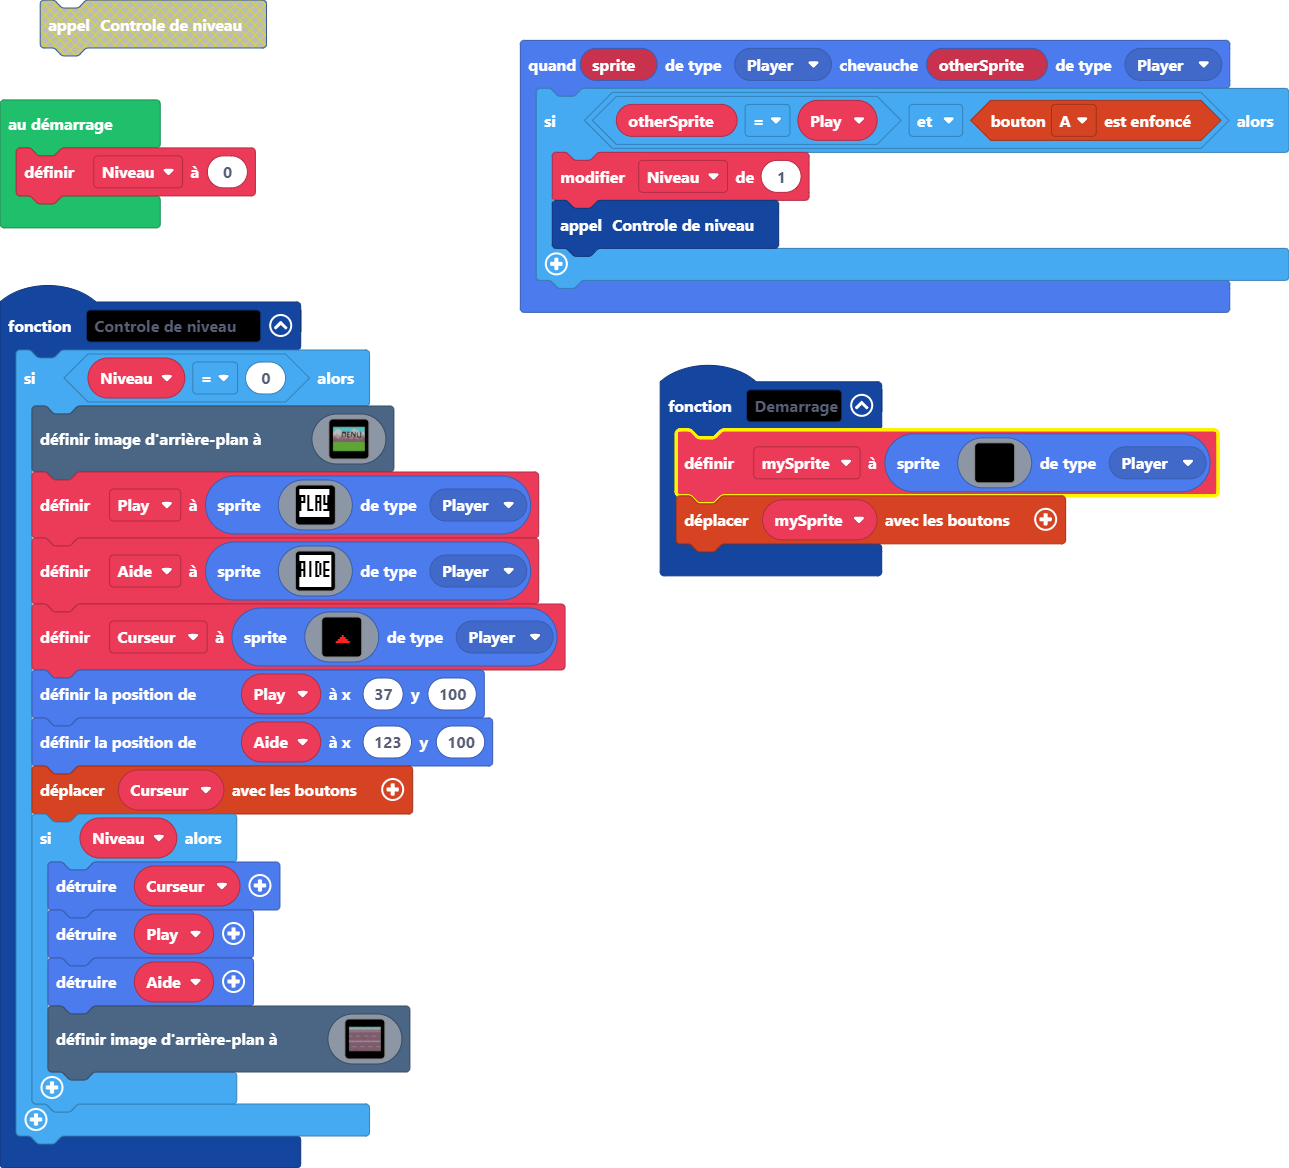
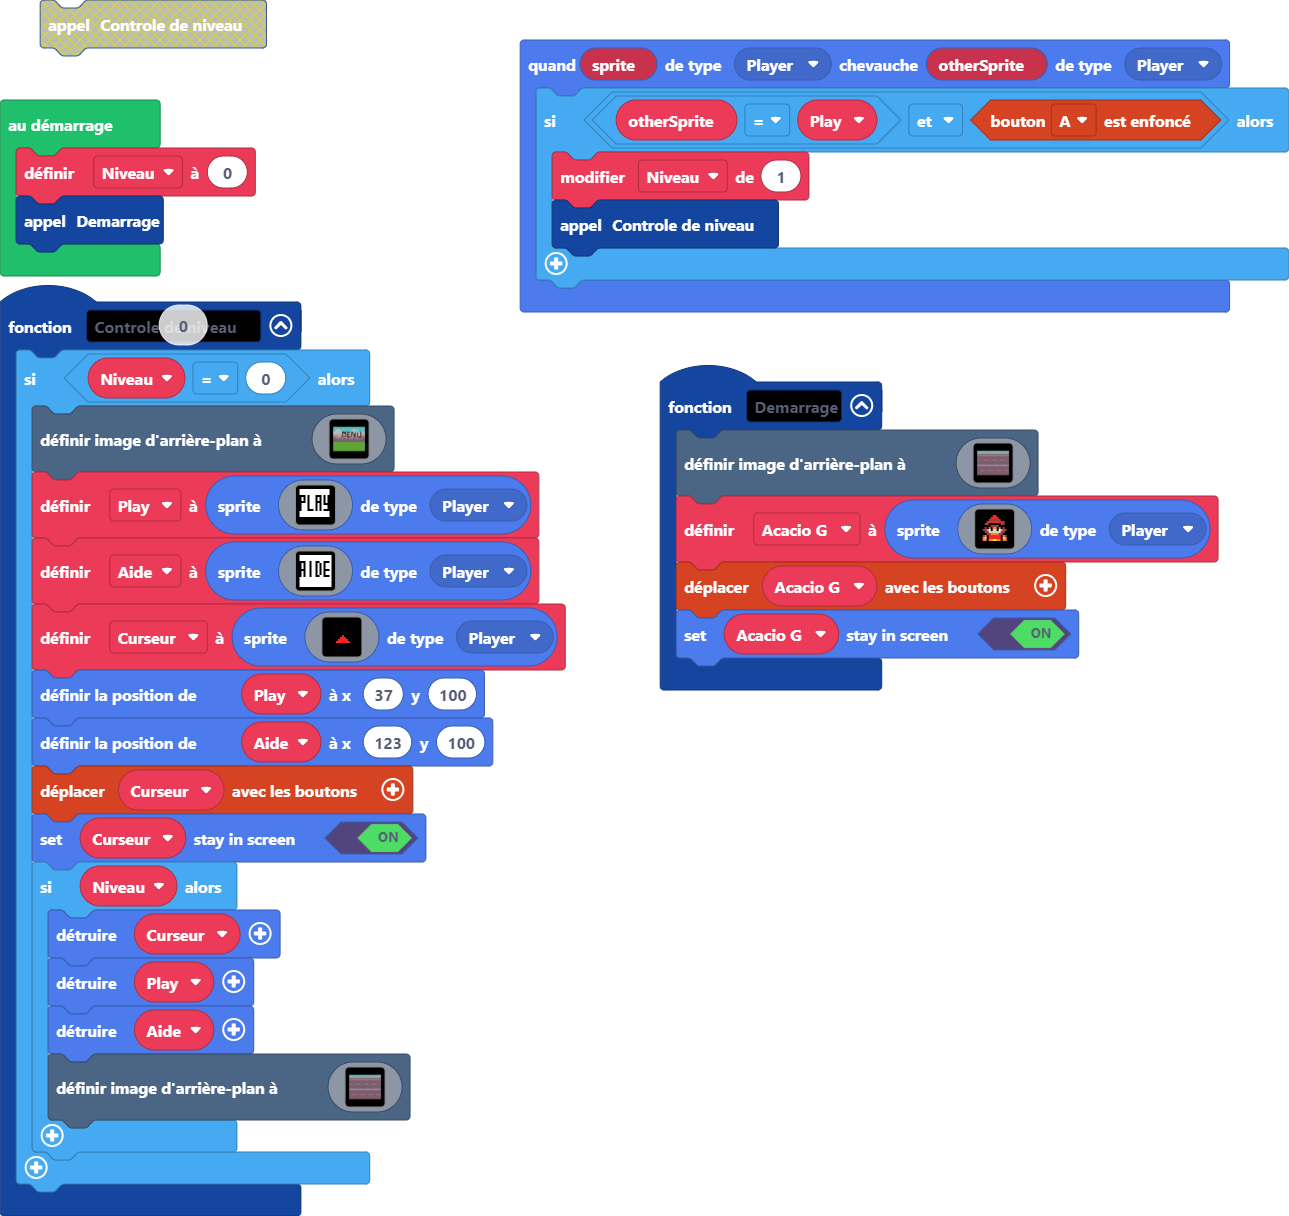
Perso

Changed region(s): [[0.0, 0.0, 0.4655, 0.9863], [0.4034, 0.0308, 1.0, 0.5856]]

diff --git a/main.ts b/main.ts
@@ -185,6 +185,7 @@ function Controle_de_niveau () {
         Play.setPosition(37, 100)
         Aide.setPosition(123, 100)
         controller.moveSprite(Curseur)
+        Curseur.setStayInScreen(true)
         if (Niveau) {
             Curseur.destroy()
             Play.destroy()
@@ -315,29 +316,153 @@ function Controle_de_niveau () {
     }
 }
 function Demarrage () {
-    mySprite = sprites.create(img`
-        . . . . . . . . . . . . . . . . 
-        . . . . . . . . . . . . . . . . 
-        . . . . . . . . . . . . . . . . 
-        . . . . . . . . . . . . . . . . 
-        . . . . . . . . . . . . . . . . 
-        . . . . . . . . . . . . . . . . 
-        . . . . . . . . . . . . . . . . 
-        . . . . . . . . . . . . . . . . 
-        . . . . . . . . . . . . . . . . 
-        . . . . . . . . . . . . . . . . 
-        . . . . . . . . . . . . . . . . 
-        . . . . . . . . . . . . . . . . 
-        . . . . . . . . . . . . . . . . 
-        . . . . . . . . . . . . . . . . 
-        . . . . . . . . . . . . . . . . 
-        . . . . . . . . . . . . . . . . 
+    scene.setBackgroundImage(img`
+        9999999999999999999999999999999999999999999999999999999999999999999999999999999999999999999999999999999999999999999999999999999999999999999999999999999999999999
+        9999999999999999999999999999999999999999999999999999111111111119999999999999999999999999999999999999991111999999999999999999999999999999999999999999111111111111
[12 lines of base64/hex data omitted]
+        cccccccccccccccccccccccccccccccccccccccccccccccccccccccccccccccccccccccccccccccccccccccccccccccccccccccccccccccccccccccccccccccccccccccccccccccccccccccccccccccc
+        1111111111111111111111111111111111111111111111111111111111111111111111111111111111111111111111111111111111111111111111111111111111111111111111111111111111111111
[3 lines of base64/hex data omitted]
+        bbbbbbbbbbbbbbbbbbbbbbbbbbbbbbbbbbbbbbbbbbbbbbbbbbbbbbbbbbbbbbbbbbbbbbbbbbbbbbbbbbbbbbbbbbbbbbbbbbbbbbbbbbbbbbbbbbbbbbbbbbbbbbbbbbbbbbbbbbbbbbbbbbbbbbbbbbbbbbbb
+        bbbbbbbbbbbbbbbbbbbbbbbbbbbbbbbbbbbbbbbbbbbbbbbbbbbbbbbbbbbbbbbbbbbbbbbbbbbbbbbbbbbbbbbbbbbbbbbbbbbbbbbbbbbbbbbbbbbbbbbbbbbbbbbbbbbbbbbbbbbbbbbbbbbbbbbbbbbbbbbb
+        bbbbbbbbbbbbbbbbbbbbbbbbbbbbbbbbbbbbbbbbbbbbbbbbbbbbbbbbbbbbbbbbbbbbbbbbbbbbbbbbbbbbbbbbbbbbbbbbbbbbbbbbbbbbbbbbbbbbbbbbbbbbbbbbbbbbbbbbbbbbbbbbbbbbbbbbbbbbbbbb
+        bbbbbbbbbbbbbbbbbbbbbbbbbbbbbbbbbbbbbbbbbbbbbbbbbbbbbbbbbbbbbbbbbbbbbbbbbbbbbbbbbbbbbbbbbbbbbbbbbbbbbbbbbbbbbbbbbbbbbbbbbbbbbbbbbbbbbbbbbbbbbbbbbbbbbbbbbbbbbbbb
[2 lines of base64/hex data omitted]
+        bbbbbbbbbbbbbbbbbbbbbbbbbbbbbbbbbbbbbbbbbbbbbbbbbbbbbbbbbbbbbbbbbbbbbbbbbbbbbbbbbbbbbbbbbbbbbbbbbbbbbbbbbbbbbbbbbbbbbbbbbbbbbbbbbbbbbbbbbbbbbbbbbbbbbbbbbbbbbbbb
+        bbbbbbbbbbbbbbbbbbbbbbbbbbbbbbbbbbbbbbbbbbbbbbbbbbbbbbbbbbbbbbbbbbbbbbbbbbbbbbbbbbbbbbbbbbbbbbbbbbbbbbbbbbbbbbbbbbbbbbbbbbbbbbbbbbbbbbbbbbbbbbbbbbbbbbbbbbbbbbbb
+        bbbbbbbbbbbbbbbbbbbbbbbbbbbbbbbbbbbbbbbbbbbbbbbbbbbbbbbbbbbbbbbbbbbbbbbbbbbbbbbbbbbbbbbbbbbbbbbbbbbbbbbbbbbbbbccccbbbbbbbbbbbbbbbbbbbbbbbbbbbbbbbbbbbbbbbbbbbbbb
+        bbbbbbbbbbbbbccccbbbbbbbbbbbbbbbbbbbbbbbbbbbbbbbbbbbbbbbbbbbbbbbbbbbbbbbbbbbbbbbbbbbbbbbbbbbbbbbbbbbbbbccccbccbbbbbbbbbbbbbbbbbbbbbbbbbbbbbbbbbbbbbbbbbbbbbbbbbb
+        bbbbbbbbbbbbcbddbcbbbbbbbbbbbbbbbbbbbbbbbbbbbbbbbbbbbbbbbbbbbbbbbbbbbbbbbbbbbbbbbbbbbbbbbbbbbbbbbbbbbbbbbbbccbbbbbbbbbbbbbbbbbbbbbbbbbbbbbbbbbbbbbbbbbbbbbbbbbbb
+        bbbbbbbbbbbbbbbbbbbbbbbbbbbbbbbbbbbbbbbbbbbbbbbbbbbbbbbbbbbbbbbbbbbbbbbbbbbbbbbbbbbbbbbbbbbbbbbbbbbbbbbbbbbbbcbbbbbbbbbbbbbbbbbbbbbbbbbbbbbbbbbbbbbbbbbbbbbbbbbb
+        bbbbbbbbbbbbbbbbbbbbbbbbbbbbbbbbbbbbbbbbbbbbbbbbbbbbbbbbbbbbbbbbbbbbbbbbbbbbbbbbbbbbbbbbbbbbbbbbbbbbbbbbbbbbbbbbbbbbbbbbbbbbbbbbbbbbbbbbbbbbbbbbbbbbbbbbbbbbbbbb
+        bbbbbbbbbbbbbbbbbbbbbbbbbbbbbbbbbbbbbbbbbbbbbbbbbbbbbbbbbbbbbbbbbbbbbbbbbbbbbbbbbbbbbbbbbbbbbbbbbbbbbbbbbbbbbbbbbbbbbbbbbbbbbbbbbbbbbbbbbbbbbbbbbbbbbbbbbbbbbbbb
+        bbbbbbbbbbbbbbbbbbbbbbbbbbbbbbbbbbbbbbbbbbbbbbbbbbbbbbbbbbbbbbbbbbbbbbbbbbbbbbbbbbbbbbbbbbbbbbbbbbbbbbbbbbbbbbbbbbbbbbbbbbbbbbbbbbbbbbbbbbbbbbbbbbbbbbbbbbbbbbbb
+        bbbbbbbbbbbbbbbbbbbbbbbbbbbbbbbbbbbbbbbbbbbbbbbbbbbbbbbbbbbbbbbbbbbbbbbbbbbbbbbbbbbbbbbbbbbbbbbbbbbbbbbbbbbbbbbbbbbbbbbbbbbbbbbbbbbbbbbbbbbbbbbbbbbbbbbbbbbbbbbb
+        bbbbbbbbbbbbbbbbbbbbbbbbbbbbbbbbbbbbbbbbbbbbbbbbbbbbbbbbbbbbbbbbbbbbbbbbbbbbbbbbbbbbbbbbbbbbbbbbbbbbbbbbbbbbbbbbbbbbbbbbbbbbbbbbbbbbbbbbbbbbbbbbbbbbbbbbbbbbbbbb
+        bbbbbbbbbbbbbbbbbbbbbbbbbbbbbbbbbbbbbbbbbbbbbbbbbbbbbbbbbbbbbbbbbbbbbbbbbbbbbbbbbbbbbbbbbbbbbbbbbbbbbbbbbbbbbbbbbbbbbbbbbbbbbbbbbbbbbbbbbbbbbbbbbbbbbbbbbbbbbbbb
+        bbbbbbbbbbbbbbbbbbbbbbbbbbbbbbbbbbbbbbbbbbbbbbbbbbbbbbbbbbbbbbbbbbbbbbbbbbbbbbbbbbbbbbbbbbbbbbbbbbbbbbbbbbbbbbbbbbbbbbbbbbbbbbbbbbbbbbbbbbbbbbbbbbbbbbbbbbbbbbbb
+        bbbbbbbbbbbbbbbbbbbbbbbbbbbbbbbbbbbbbbbbbbbbbbbbbbbbbbbbbbbbbbbbbbbbbbbbbbbbbbbbbbbbbbbbbbbbbbbbbbbbbbbbbbbbbbbbbbbbbbbbbbbbbbbbbbbbbbbbbbbbbbbbbbbbbbbbbbbbbbbb
+        bbbbbbbbbbbbbbbbbbbbbbbbbbbbbbbbbbbbbbbbbbbbbbbbbbbbbbbbbbbbbbbbbbbbbbbbbbbbbbbbbbbbbbbbbbbbbbbbbbbbbbbbbbbbbbbbbbbbbbbbbbbbbbbbbbbbbbbbbbbbbbbbbbbbbbbbbbbbbbbb
+        bbbbbbbbbbbbbbbbbbbbbbbbbbbbbbbbbbbbbbbbbbbbbbbbbbbbbbbbbbbbbbbbbbbbbbbbbbbbbbbbbbbbbbbbbbbbbbbbbbbbbbbbbbbbbbbbbbbbbbbbbbbbbbbbbbbbbbbbbbbbbbbbbbbbbbbbbbbbbbbb
+        bbbbbbbbbbbbbbbbbbbbbbbbbbbbbbbbbbbbbbbbbbbbbbbbbbbbbbbbbbbbbbbbbbbbbbbbbbbbbbbbbbbbbbbbbbbbbbbbbbbbbbbbbbbbbbbbbbbbbbbbbbbbbbbbbbbbbbbbbbbbbbbbbbbbbbbbbbbbbbbb
+        bbbbbbbbbbbbbbbbbbbbbbbbbbbbbbbbbbbbbbbbbbbbbbbbbbbbbbbbbbbbbbbbbbbbbbbbbbbbbbbbbbbbbbbbbbbbbbbbbbbbbbbbbbbbbbbbbbbbbbbbbbbbbbbbbbbbbbbbbbbbbbbbbbbbbbbbbbbbbbbb
+        bbbbbbbbbbbbbbbbbbbbbbbbbbbbbbbbbbbbbbbbbbbbbbbbbbbbbbbbbbbbbbbbbbbbbbbbbbbbbbbbbbbbbbbbbbbbbbbbbbbbbbbbbbbbbbbbbbbbbbbbbbbbbbbbbbbbbbbbbbbbbbbbbbbbbbbbbbbbbbbb
+        bbbbbbbbbbbbbbbbbbbbbbbbbbbbbbbbbbbbbbbbbbbbbbbbbbbbbbbbbbbbbbbbbbbbbbbbbbbbbbbbbbbbbbbbbbbbbbbbbbbbbbbbbbbbbbbbbbbbbbbbbbbbbbbbbbbbbbbbbbbbbbbbbbbbbbbbbbbbbbbb
[2 lines of base64/hex data omitted]
+        bbbbbbbbbbbbbbbbbbbbbbbbbbbbbbbbbbbbbbbbbbbbbbbbbbbbbbbbbbbbbbbbbbbbbbbbbbbbbbbbbbbbbbbbbbbbbbbbbbbbbbbbbbbbbbbbbbbbbbbbbbbbbbbbbbbbbbbbbbbbbbbbbbbbbbbbbbbbbbbb
+        bbbbbbbbbbbbbbbbbbbbbbbbbbbbbbbbbbbbbbbbbbbbbbbbbbbbbbbbbbbbbbbbbbbbbbbbbbbbbbbbbbbbbbbbbbbbbbbbbbbbbbbbbbbbbbbbbbbbbbbbbbbbbbbbbbbbbbbbbbbbbbbbbbbbbbbbbbbbbbbb
+        bbbbbbbbbbbbbbbbbbbbbbbbbbbbbbbbbbbbbbbbbbbbbbbbbbbbbbbbbbbbbbbbbbbbbbbbbbbbbbbbbbbbbbbbbbbbbbbbbbbbbbbbbbbbbbbbbbbbbbbbbbbbbbbbbbbbbbbbbbbbbbbbbbbbbbbbbbbbbbbb
+        bbbbbbbbbbbbbbbbbbbbbbbbbbbbbbbbbbbbbbbbbbbbbbbbbbbbbbbbbbbbbbbbbbbbbbbbbbbbbbbbbbbbbbbbbbbbbbbbbbbbbbbbbbbbbbbbbbbbbbbbbbbbbbbbbbbbbbbbbbbbbbbbbbbbbbbbbbbbbbbb
+        bbbbbbbbbbbbbbbbbbbbbbbbbbbbbbbbbbbbbbbbbbbbbbbbbbbbbbbbbbbbbbbbbbbbbbbbbbbbbbbbbbbbbbbbbbbbbbbbbbbbbbbbbbbbbbbbbbbbbbbbbbbbbbbbbbbbbbbbbbbbbbbbbbbbbbbbbbbbbbbb
+        bbbbbbbbbbbbbbbbbbbbbbbbbbbbbbbbbbbbbbbbbbbbbbbbbbbbbbbbbbbbbbbbbbbbbbbbbbbbbbbbbbbcbbbbbbbbbbbbbbbbbbbbbbbbbbbbbbbbbbbbbbbbbbbbbbbbbbbbbbbbbbbbbbbbbbbbbbbbbbbb
+        bbbbbbbbbbbbbbbbbbbbbbbbbbbbbbbbbbbbbbbbbbbbbbbbbbbbbbbbbbbbbbbbbbbbbbbbbcccbbbccccbbbbbbbbbbbbbbbbbbbbbbbbbbbbbbbbbbbbbbbbbbbbbbbbbbbbbbbbbbbbbbbbbbbbbbbbbbbbb
+        bbbbbbbbbbbbbbbbbbbbbbbbbbbbbbbbbbbbbbbbbbbbbbbbbbbbbbbbbbbbbbbbbbbbbbbbcbbcbbcbcbbbbbbbbbbbbbbbbbbbbbbbbbbbbbbbbbbbbbbbbbbbbbbbbbbbbbbbbbbbbbbbbbbbbbbbbbbbbbbb
+        bbbbbbbbbbbbbbbbbbbbbbbbbbbbbbbbbbbbbbbbbbbbbbbbbbbbbbbbbbbbbbbbbbbbbbbbbbbbccbcbbbbbbbbbbbbbbbbbbbbbbbbbbbbbbbbbbbbbbbbbbbbbbbbbbbbbbbbbbbbbbbbbbbbbbbbbbbbbbbb
+        bbbbbbbbbbbbbbbbbbbbbbbbbbbbbbbbbbbbbbbbbbbbbbbbbbbbbbbbbbbbbbbbbbbbbbbbbbbbbcccccbbbbbbbbbbbbbbbbbbbbbbbbbbbbbbbbbbbbbbbbbbbbbbbbbbbbbbbbbbbbbbbbbbbbbbbbbbbbbb
+        bbbbbbbbbbbbbbbbbbbbbbbbbbbbbbbbbbbbbbbbbbbbbbbbbbbbbbbbbbbbbbbbbbbbbbbbbbbbbbbbbbcbbbbbbbbbbbbbbbbbbbbbbbbbbbbbbbbbbbbbbbbbbbbbbbbbbbbbbbbbbbbbbbbbbbbbbbbbbbbb
+        bbbbbbbbbbbbbbbbbbbbbbbbbbbbbbbbbbbbbbbbbbbbbbbbbbbbbbbbbbbbbbbbbbbbbbbbbbbbbbbbbbbbbbbbbbbbbbbbbbbbbbccccbbbbbbbbbbbbbbbbbbbbbbbbbbbbbbbbbbbbbbbbbbbbbbbbbbbbbb
+        bbbbbbbbbbbbbbbbbbbbbbbbbbbbbbbbbbbbbbbbbbbbbbbbbbbbbbbbbbbbbbbbbbbbbbbbbbbbbbbbbbbbbbbbbbbbbbbbbbbbbcbddbcbbbbbbbbbbbbbbbbbbbbbbbbbbbbbbbbbbbbbbbbbbbbbbbbbbbbb
+        bbbbbbbbbbbbbbbbbbbbbbbbbbbbbbbbbbbbbbbbbbbbbbbbbbbbbbbbbbbbbbbbbbbbbbbbbbbbbbbbbbbbbbbbbbbbbbbbbbbbbbbbbbbbbbbbbbbbbbbbbbbbbbbbbbbbbbbbbbbbbbbbbbbbbbbbbbbbbbbb
+        bbbbbbbbbbbbbbbbbbbbbbbbbbbbbbbbbbbbbbbbbbbbbbbbbbbbbbbbbbbbbbbbbbbbbbbbbbbbbbbbbbbbbbbbbbbbbbbbbbbbbbbbbbbbbbbbbbbbbbbbbbbbbbbbbbbbbbbbbbbbbbbbbbbbbbbbbbbbbbbb
+        bbbbbbbbbbbbbbbbbbbbbbbbbbbbbbbbbbbbbbbbbbbbbbbbbbbbbbbbbbbbbbbbbbbbbbbbbbbbbbbbbbbbbbbbbbbbbbbbbbbbbbbbbbbbbbbbbbbbbbbbbbbbbbbbbbbbbbbbbbbbbbbbbbbbbbbbbbbbbbbb
+        bbbbbbbbbbbbbbbbbbbbbbbbbbbbbbbbbbbbbbbbbbbbbbbbbbbbbbbbbbbbbbbbbbbbbbbbbbbbbbbbbbbbbbbbbbbbbbbbbbbbbbbbbbbbbbbbbbbbbbbbbbbbbbbbbbbbbbbbbbbbbbbbbbbbbbbbbbbbbbbb
+        bbbbbbbbbbbbbbbbbbbbbbbbbbbbbbbbbbbbbbbbbbbbbbbbbbbbbbbbbbbbbbbbbbbbbbbbbbbbbbbbbbbbbbbbbbbbbbbbbbbbbbbbbbbbbbbbbbbbbbbbbbbbbbbbbbbbbbbbbbbbbbbbbbbbbbbbbbbbbbbb
+        bbbbbbbbbbbbbbbbbbbbbbbbbbbbbbbbbbbbbbbbbbbbbbbbbbbbbbbbbbbbbbbbbbbbbbbbbbbbbbbbbbbbbbbbbbbbbbbbbbbbbbbbbbbbbbbbbbbbbbbbbbbbbbbbbbbbbbbbbbbbbbbbbbbbbbbbbbbbbbbb
+        bbbbbbbbbbbbbbbbbbbbbbbbbbbbbbbbbbbbbbbbbbbbbbbbbbbbbbbbbbbbbbbbbbbbbbbbbbbbbbbbbbbbbbbbbbbbbbbbbbbbbbbbbbbbbbbbbbbbbbbbbbbbbbbbbbbbbbbbbbbbbbbbbbbbbbbbbbbbbbbb
+        bbbbbbbbbbbbbbbbbbbbbbbbbbbbbbbbbbbbbbbbbbbbbbbbbbbbbbbbbbbbbbbbbbbbbbbbbbbbbbbbbbbbbbbbbbbbbbbbbbbbbbbbbbbbbbbbbbbbbbbbbbbbbbbbbbbbbbbbbbbbbbbbbbbbbbbbbbbbbbbb
+        bbbbbbbbbbbbbbbbbbbbbbbbbbbbbbbbbbbbbbbbbbbbbbbbbbbbbbbbbbbbbbbbbbbbbbbbbbbbbbbbbbbbbbbbbbbbbbbbbbbbbbbbbbbbbbbbbbbbbbbbbbbbbbbbbbbbbbbbbbbbbbbbbbbbbbbbbbbbbbbb
[2 lines of base64/hex data omitted]
+        bbbbbbbbbbbbbbbbbbbbbbbbbbbbbbbbbbbbbbbbbbbbbbbbbbbbbbbbbbbbbbbbbbbbbbbbbbbbbbbbbbbbbbbbbbbbbbbbbbbbbbbbbbbbbbbbbbbbbbbbbbbbbbbbbbbbbbbbbbbbbbbbbbbbbbbbbbbbbbbb
+        bbbbbbbbbbbbbbbbbbbbbbbbbbbbbbbbbbbbbbbbbbbbbbbbbbbbbbbbbbbbbbbbbbbbbbbbbbbbbbbbbbbbbbbbbbbbbbbbbbbbbbbbbbbbbbbbbbbbbbbbbbbbbbbbbbbbbbbbbbbbbbbbbbbbbbbbbbbbbbbb
[2 lines of base64/hex data omitted]
+        bbbbbbbbbbbbbbbbbbbbbbbbbbbbbbbbbbbbbbbbbbbbbbbbbbbbbbbbbbbbbbbbbbbbbbbbbbbbbbbbbbbbbbbbbbbbbbbbbbbbbbbbbbbbbbbbbbbbbbbbbbbbbbbbbbbbbbbbbbbbbbbbbbbbbbbbbbbbbbbb
+        bbbbbbbbbbbbbbbbbbbbbbbbbbbbbbbbbbbbbbbbbbbbbbbbbbbbbbbbbbbbbbbbbbbbbbbbbbbbbbbbbbbbbbbbbbbbbbbbbbbbbbbbbbbbbbbbbbbbbbbbbbbbbbbbbbbbbbbbbbbbbbbbbbbbbbbbbbbbbbbb
+        bbbbbbbbbbbbbbbbbbbbbbbbbbbbbbbbbbbbbbbbbbbbbbbbbbbbbbbbbbbbbbbbbbbbbbbbbbbbbbbbbbbbbbbbbbbbbbbbbbbbbbbbbbbbbbbbbbbbbbbbbbbbbbbbbbbbbbbbbbbbbbbbbbbbbbbbbbbbbbbb
+        bbbbbbbbbbbbbbbbbbbbbbbbbbbbbbbbbbbbbbbbbbbbbbbbbbbbbbbbbbbbbbbbbbbbbbbbbbbbbbbbbbbbbbbbbbbbbbbbbbbbbbbbbbbbbbbbbbbbbbbbbbbbbbbbbbbbbbbbbbbbbbbbbbbbbbbbbbbbbbbb
+        bbbcccbbbbbbbbbbbbbbbbbbbbbbbbbbbbbbbbbbbbbbbbbbbbbbbbbbbbbbbbbbbbbbbbbbbbbbbbbbbbbbbbbbbbbbbbbbbbbbbbbbbbbbbbbbbbbbbbbbbbbbbbbbbbbbbbbbbbbbbbbbbbbbbbbbbbbbbbbb
+        bbccbbcbbbbbbbbbbbbbbbbbbbbbbbbbbbbbbbbbbbbbbbbbbbbbbbbbbbbbbbbbbbbbbbbbbbbbbbbbbbbbbbbbbbbbbbbbbbbbbbbbbbbbbbbbbbbbbbbbbbbbbbbbbbbbbbbbbbbbbbbbbbbbbbbbbbbbbbbb
+        cccbbbbbbbbbbbbbbbbbbbbbbbbbbbbbbbbbbbbbbbbbbbbbbbbbbbbbbbbbbbbbbbbbbbbbbbbbbbbbbbbbbbbbbbbbbbbbbbbbbbbbbbbbbbbbbbbbbbbbbbbbbbbbbbbbbbbbbbbbbbbbbbbbbbbbbbbbbbbc
+        bccbbbbbbbbbbbbbbbbbbbbbbbbbbbbbbbbbbbbbbbbbbbbbbbbbbbbbbbbbbbbbbbbbbbbbbbbbbbbbbbbbbbbbbbbbbbbbbbbbbbbbbbbbbbbbbbbbbbbbbbbbbbbbbbbbbbbbbbbbbbbbbbbbbbbbbbbbcccc
+        ccccbbbbbbbbbbbbbbbbbbbbbbbbbbbbbbbbbbbbbbbbbbbbbbbbbbbbbbbbbbbbbbbbbbbbbbbbbbbbbbbbbbbbbbbbbbbbbbbbbbbbbbbbbbbbbbbbbbbbbbbbbbbbbbbbbbbbbbbbbbbbbbbbbbbbbbccbbbb
+        bbbbccbbbbbbbbbbbbbbbbbbbbbbbbbbbbbbbbbbbbbbbbbbbbbbbbbbbbbbbbbbbbbbbbbbbbbbbbbbbbbbbbbbbbbbbbbbbbbbbbbbbbbbbbbbbbbbbbbbbbbbbbbbbbbbbbbbbbbbbbbbbbbbbbbbbbbbbbbb
+        bbbbbbbbbbbbbbbbbbbbbbbbbbbbbbbbbbbbbbbbbbbbbbbbbbbbbbbbbbbbbbbbbbbbbbbbbbbbbbbbbbbbbbbbbbbbbbbbbbbbbbbbbbbbbbbbbbbbbbbbbbbbbbbbbbbbbbbbbbbbbbbbbbbbbbbbbbbbbbbb
+        bbbbbbbbbbbbbbbbbbbbbbbbbbbbbbbbbbbbbbbbbbbbbbbbbbbbbbbbbbbbbbbbbbbbbbbbbbbbbbbbbbbbbbbbbbbbbbbbbbbbbbbbbbbbbbbbbbbbbbbbbbbbbbbbbbbbbbbbbbbbbbbbbbbbbbbbbbbbbbbb
+        bbbbbbbbbbbbbbbbbbbbbbbbbbbbbbbbbbbbbbbbbbbbbbbbbbbbbbbbbbbbbbbbbbbbbbbbbbbbbbbbbbbbbbbbbbbbbbbbbbbbbbbbbbbbbbbbbbbbbbbbbbbbbbbbbbbbbbbbbbbbbbbbbbbbbbbbbbbbbbbb
+        bbbbbbbbbbbbbbbbbbbbbbbbbbbbbbbbbbbbbbbbbbbbbbbbbbbbbbbbbbbbbbbbbbbbbbbbbbbbbbbbbbbbbbbbbbbbbbbbbbbbbbbbbbbbbbbbbbbbbbbbbbbbbbbbbbbbbbbbbbbbbbbbbbbbbbbbbbbbbbbb
+        bbbbbbbbbbbbbbbbbbbbbbbbbbbbbbbbbbbbbbbbbbbbbbbbbbbbbbbbbbbbbbbbbbbbbbbbbbbbbbbbbbbbbbbbbbbbbbbbbbbbbbbbbbbbbbbbbbbbbbbbbbbbbbbbbbbbbbbbbbbbbbbbbbbbbbbbbbbbbbbb
+        bbbbbbbbbbbbbbbbbbbbbbbbbbbbbbbbbbbbbbbbbbbbbbbbbbbbbbbbbbbbbbbbbbbbbbbbbbbbbbbbbbbbbbbbbbbbbbbbbbbbbbbbbbbbbbbbbbbbbbbbbbbbbbbbbbbbbbbbbbbbbbbbbbbbbbbbbbbbbbbb
+        bbbbbbbbbbbbbbbbbbbbbbbbbbbbbbbbbbbbbbbbccccbbbbbbbbbbbbbbbbbbbbbbbbbbbbbbbbbbbbbbbbbbbbbbbbbbbbbbbbbbbbbbbbbbbbbbbbbbbbbbbbbbbbbbbbbbbbbbbbbbbbbbbbbbbbbbbbbbbb
+        bbbbbbbbbbbbbbbbbbbbbbbbbbbbbbbbbbbbbbbcbddbcbbbbbbbbbbbbbbbbbbbbbbbbbbbbbbbbbbbbbbbbbbbbbbbbbbbbbbbbbbbbbbbbbbbbbbbbbbbbbbbbbbbbbbbbbbbbbbbbbbbbbbbbbbbbbbbbbbb
+        bbbbbbbbbbbbbbbbbbbbbbbbbbbbbbbbbbbbbbbbbbbbbbbbbbbbbbbbbbbbbbbbbbbbbbbbbbbbbbbbbbbbbbbbbbbbbbbbbbbbbbbbbbbbbbbbbbbbbbbbbbbbbbbbbbbbbbbbbbbbbbbbbbbbbbbbbbbbbbbb
+        bbbbbbbbbbbbbbbbbbbbbbbbbbbbbbbbbbbbbbbbbbbbbbbbbbbbbbbbbbbbbbbbbbbbbbbbbbbbbbbbbbbbbbbbbbbbbbbbbbbbbbbbbbbbbbbbbbbbbbbbbbbbbbbbbbbbbbbbbbbbbbbbbbbbbbbbbbbbbbbb
+        bbbbbbbbbbbbbbbbbbbbbbbbbbbbbbbbbbbbbbbbbbbbbbbbbbbbbbbbbbbbbbbbbbbbbbbbbbbbbbbbbbbbbbbbbbbbbbbbbbbbbbbbbbbbbbbbbbbbbbbbbbbbbbbbbbbbbbbbbbbbbbbbbbbbbbbbbbbbbbbb
+        bbbbbbbbbbbbbbbbbbbbbbbbbbbbbbbbbbbbbbbbbbbbbbbbbbbbbbbbbbbbbbbbbbbbbbbbbbbbbbbbbbbbbbbbbbbbbbbbbbbbbbbbbbbbbbbbbbbbbbbbbbbbbbbbbbbbbbbbbbbbbbbbbbbbbbbbbbbbbbbb
[2 lines of base64/hex data omitted]
+        bbbbbbbbbbbbbbbbbbbbbbbbbbbbbbbbbbbbbbbbbbbbbbbbbbbbbbbbbbbbbbbbbbbbbbbbbbbbbbbbbbbbbbbbbbbbbbbbbbbbbbbbbbbbbbbbbbbbbbbbbbbbbbbbbbbbbbbbbbbbbbbbbbbbbbbbbbbbbbbb
+        bbbbbbbbbbbbbbbbbbbbbbbbbbbbbbbbbbbbbbbbbbbbbbbbbbbbbbbbbbbbbbbbbbbbbbbbbbbbbbbbbbbbbbbbbbbbbbbbbbbbbbbbbbbbbbbbbbbbbbbbbbbbbbbbbbbbbbbbbbbbbbbbbbbbbbbbbbbbbbbb
+        bbbbbbbbbbbbbbbbbbbbbbbbbbbbbbbbbbbbbbbbbbbbbbbbbbbbbbbbbbbbbbbbbbbbbbbbbbbbbbbbbbbbbbbbbbbbbbbbbbbbbbbbbbbbbbbbbbbbbbbbbbbbbbbbbbbbbbbbbbbbbbbbbbbbbbbbbbbbbbbb
+        bbbbbbbbbbbbbbbbbbbbbbbbbbbbbbbbbbbbbbbbbbbbbbbbbbbbbbbbbbbbbbbbbbbbbbbbbbbbbbbbbbbbbbbbbbbbbbbbbbbbbbbbbbbbbbbbbbbbbbbbbbbbbbbbbbbbbbbbbbbbbbbbbbbbbbbbbbbbbbbb
+        bbbbbbbbbbbbbbbbbbbbbbbbbbbbbbbbbbbbbbbbbbbbbbbbbbbbbbbbbbbbbbbbbbbbbbbbbbbbbbbbbbbbbbbbbbbbbbbbbbbbbbbbbbbbbbbbbbbbbbbbbbbbbbbbbbbbbbbbbbbbbbbbbbbbbbbbbbbbbbbb
+        bbbbbbbbbbbbbbbbbbbbbbbbbbbbbbbbbbbbbbbbbbbbbbbbbbbbbbbbbbbbbbbbbbbbbbbbbbbbbbbbbbbbbbbbbbbbbbbbbbbbbbbbbbbbbbbbbbbbbbbbbbbbbbbbbbbbbbbbbbbbbbbbbbbbbbbbbbbbbbbb
+        bbbbbbbbbbbbbbbbbbbbbbbbbbbbbbbbbbbbbbbbbbbbbbbbbbbbbbbbbbbbbbbbbbbbbbbbbbbbbbbbbbbbbbbbbbbbbbbbbbbbbbbbbbbbbbbbbbbbbbbbbbbbbbbbbbbbbbbbbbbbbbbbbbbbbbbbbbbbbbbb
+        bbbbbbbbbbbbbbbbbbbbbbbbbbbbbbbbbbbbbbbbbbbbbbbbbbbbbbbbbbbbbbbbbbbbbbbbbbbbbbbbbbbbbbbbbbbbbbbbbbbbbbbbbbbbbbbbbbbbbbbbbbbbbbbbbbbbbbbbbbbbbbbbbbbbbbbbbbbbbbbb
+        bbbbbbbbbbbbbbbbbbbbbbbbbbbbbbbbbbbbbbbbbbbbbbbbbbbbbbbbbbbbbbbbbbbbbbbbbbbbbbbbbbbbbbbbbbbbbbbbbbbbbbbbbbbbbbbbbbbbbbbbbbbbbbbbbbbbbbbbbbbbbbbbbbbbbbbbbbbbbbbb
+        bbbbbbbbbbbbbbbbbbbbbbbbbbbbbbbbbbbbbbbbbbbbbbbbbbbbbbbbbbbbbbbbbbbbbbbbbbbbbbbbbbbbbbbbbbbbbbbbbbbbbbbbbbbbbbbbbbbbbbbbbbbbbbbbbbbbbbbbbbbbbbbbbbbbbbbbbbbbbbbb
+        ccbbbbbbbbbbbbbbbbbbbbbbbbbbbbbbbbbbbbbbbbbbbbbbbbbbbbbbbbbbbbbbbbbbbbbbbbbbbbbbbbbbbbbbbbbbbbbbbbbbbbbbbbbbbbbbbbbbbbbbbbbbbbbbbbbbbbbbbbbbbbbbbbbbbbbbbbbbbbcc
+        dbcbbbbbbbbbbbbbbbbbbbbbbbbbbbbbbbbbbbbbbbbbbbbbbbbbbbbbbbbbbbbbbbbbbbbbbbbbbbbbbbbbbbbbbbbbbbbbbbbbbbbbbbbbbbbbbbbbbbbbbbbbbbbbbbbbbbbbbbbbbbbbbbbbbbbbbbbbbcbd
+        bbbbbbbbbbbbbbbbbbbbbbbbbbbbbbbbbbbbbbbbbbbbbbbbbbbbbbbbbbbbbbbbbbbbbbbbbbbbbbbbbbbbbbbbbbbbbbbbbbbbbbbbbbbbbbbbbbbbbbbbbbbbbbbbbbbbbbbbbbbbbbbbbbbbbbbbbbbbbbbb
+        bbbbbbbbbbbbbbbbbbbbbbbbbbbbbbbbbbbbbbbbbbbbbbbbbbbbbbbbbbbbbbbbbbbbbbbbbbbbbbbbbbbbbbbbbbbbbbbbbbbbbbbbbbbbbbbbbbbbbbbbbbbbbbbbbbbbbbbbbbbbbbbbbbbbbbbbbbbbbbbb
+        bbbbbbbbbbbbbbbbbbbbbbbbbbbbbbbbbbbbbbbbbbbbbbbbbbbbbbbbbbbbbbbbbbbbbbbbbbbbbbbbbbbbbbbbbbbbbbbbbbbbbbbbbbbbbbbbbbbbbbbbbbbbbbbbbbbbbbbbbbbbbbbbbbbbbbbbbbbbbbbb
+        bbbbbbbbbbbbbbbbbbbbbbbbbbbbbccbbbbbbbbcbbbbbbbbbbbbbbbbbbbbbbbbbbbbbbbbbbbbbbbbbbbbbbbbbbbbbbbbbbbbbbbbbbbbbbbbbbbbbbbbbbbbbbbbbbbbbbbbbbbbbbbbbbbbbbbbbbbbbbbb
+        bbbbbbbbbbbbbbbbbbbbbbbbbbbbbbbbcccccccbbbbbbbbbbbbbbbbbbbbbbbbbbbbbbbbbbbbbbbbbbbbbbbbbbbbbbbbbbbbbbbbbbbbbbbbbbbbbbbbbbbbbbbbbbbbbbbbbbbbbbbbbbbbbbbbbbbbbbbbb
+        bbbbbbbbbbbbbbbbbbbbbbbbbbbbbbbbbbcbcbbbbbbbbbbbbbbbbbbbbbbbbbbbbbbbbbbbbbbbbbbbbbbbbbbbbbbbbbbbbbbbbbbbbbbbbbbbbbbbbbbbbbbbbbbbbbbbbbbbbbbbbbbbbbbbbbbbbbbbbbbb
+        bbbbbbbbbbbbbbbbbbbbbbbbbbbbbbbbbbbcccbbbbbbbbbbbbbbbbbbbbbbbbbbbbbbbbbbbbbbbbbbbbbbbbbbbbbbbbbbbbbbbbbbbbbbbbbbbbbbbbbbbbbbbbbbbbbbbbbbbbbbbbbbbbbbbbbbbbbbbbbb
+        bbbbbbbbbbbbbbbbbbbbbbbbbbbbbbbbbbbbbbccbbbbbbbbbbbbbbbbbbbbbbbbbbbbbbbbbbbbbbbbbbbbbbbbbbbbbbbbbbbbbbbbbbbbbbbbbbbbbbbbbbbbbbbbbbbbbbbbbbbbbbbbbbbbbbbbbbbbbbbb
+        bbbbbbbbbbbbbbbbbbbbbbbbbbbbbbbbbbbbbbbbbbbbbbbbbbbbbbbbbbbbbbbbbbbbbbbbbbbbbbbbbbbbbbbbbbbbbbbbbbbbbbbbbbbbbbbbbbbbbbbbbbbbbbbbbbbbbbbbbbbbbbbbbbbbbbbbbbbbbbbb
+        `)
+    Acacio_G = sprites.create(img`
+        . . . . . . f f f f . . . . . . 
+        . . . . f f f 2 2 f f f . . . . 
+        . . . f f f 2 2 2 2 f f f . . . 
+        . . f f f e e e e e e f f f . . 
+        . . f f e 2 2 2 2 2 2 e e f . . 
+        . . f e 2 f f f f f f 2 e f . . 
+        . . f f f f e e e e f f f f . . 
+        . f f e f b f 4 4 f b f e f f . 
+        . f e e 4 1 f d d f 1 4 e e f . 
+        . . f e e d d d d d d e e f . . 
+        . . . f e e 4 4 4 4 e e f . . . 
+        . . e 4 f 2 2 2 2 2 2 f 4 e . . 
+        . . 4 d f 2 2 2 2 2 2 f d 4 . . 
+        . . 4 4 f 4 4 5 5 4 4 f 4 4 . . 
+        . . . . . f f f f f f . . . . . 
+        . . . . . f f . . f f . . . . . 
         `, SpriteKind.Player)
-    controller.moveSprite(mySprite)
+    controller.moveSprite(Acacio_G)
+    Acacio_G.setStayInScreen(true)
 }
-let mySprite: Sprite = null
+let Acacio_G: Sprite = null
 let Curseur: Sprite = null
 let Aide: Sprite = null
 let Play: Sprite = null
 let Niveau = 0
 Niveau = 0
+Demarrage()
